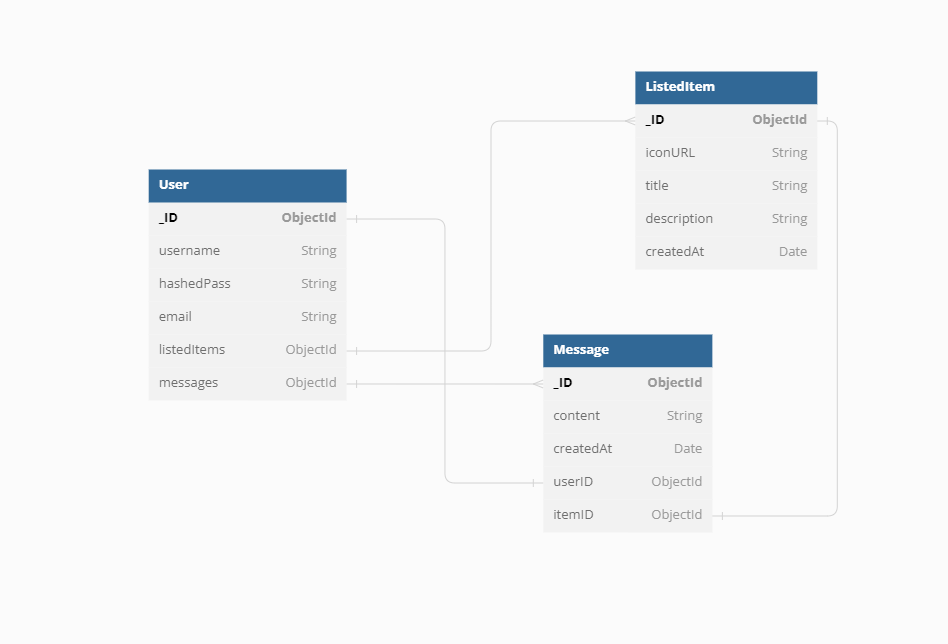
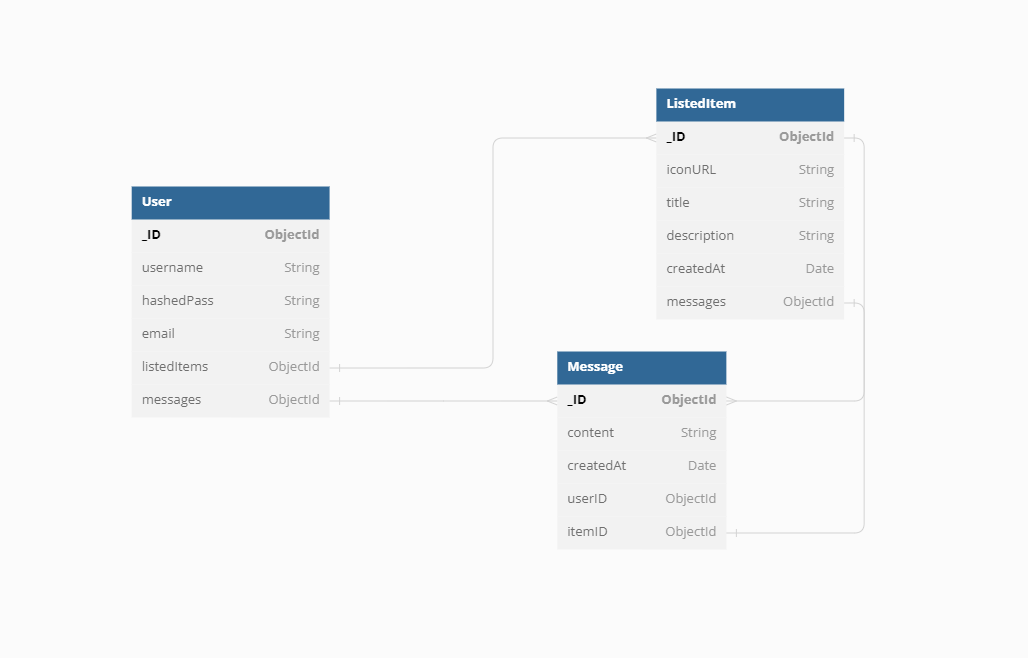
updated models to match new schema

diff --git a/server/models/User.js b/server/models/User.js
@@ -1,28 +1,14 @@
 const mongoose = require("mongoose");
 const { Schema } = mongoose;
 
-const listedItemSchema = new Schema({
-    iconURL: String,
-    title: String,
-    description: String,
-    createdAt: { Date, default: Date.now },
-});
-
-const messageSchema = new Schema({
-    content: String,
-    createdAt: { Date, default: Date.now },
-    userID: mongoose.ObjectId,
-    itemID: mongoose.ObjectId,
-});
-
 const userSchema = new Schema({
     username: String,
     hashedPass: String,
     email: String,
-    listedItems: [listedItemSchema],
-    messages: [messageSchema],
+    listedItems: [{ type: mongoose.Types.ObjectId, ref: "ListedItem" }],
+    messages: [{ type: mongoose.Types.ObjectId, ref: "Message" }],
 });
 
-const User = mongoose.model("user", userSchema);
+const User = mongoose.model("User", userSchema);
 
 module.exports = User;

diff --git a/server/models/ListedItem.js b/server/models/ListedItem.js
@@ -1,0 +1,14 @@
+const mongoose = require("mongoose");
+const { Schema } = mongoose;
+
+const listedItemSchema = new Schema({
+    iconURL: String,
+    title: String,
+    description: String,
+    createdAt: { Date, default: Date.now },
+    messages: [{ type: mongoose.Types.ObjectId, ref: "Message" }],
+});
+
+const listedItem = mongoose.model("ListedItem", listedItemSchema);
+
+module.exports = listedItem;

diff --git a/server/models/Message.js b/server/models/Message.js
@@ -1,0 +1,13 @@
+const mongoose = require("mongoose");
+const { Schema } = mongoose;
+
+const messageSchema = new Schema({
+    content: String,
+    createdAt: { Date, default: Date.now },
+    userID: mongoose.ObjectId,
+    itemID: { type: mongoose.Types.ObjectId, ref: "ListedItem" },
+});
+
+const Message = mongoose.model("Message", messageSchema);
+
+module.exports = Message;

diff --git a/server/models/index.js b/server/models/index.js
@@ -1,3 +1,5 @@
-const { User } = require("./User");
+const User = require("./User");
+const Message = require("./Message");
+const ListedItem = require("./ListedItem");
 
-module.exports = { User };
+module.exports = { User, Message, ListedItem };
